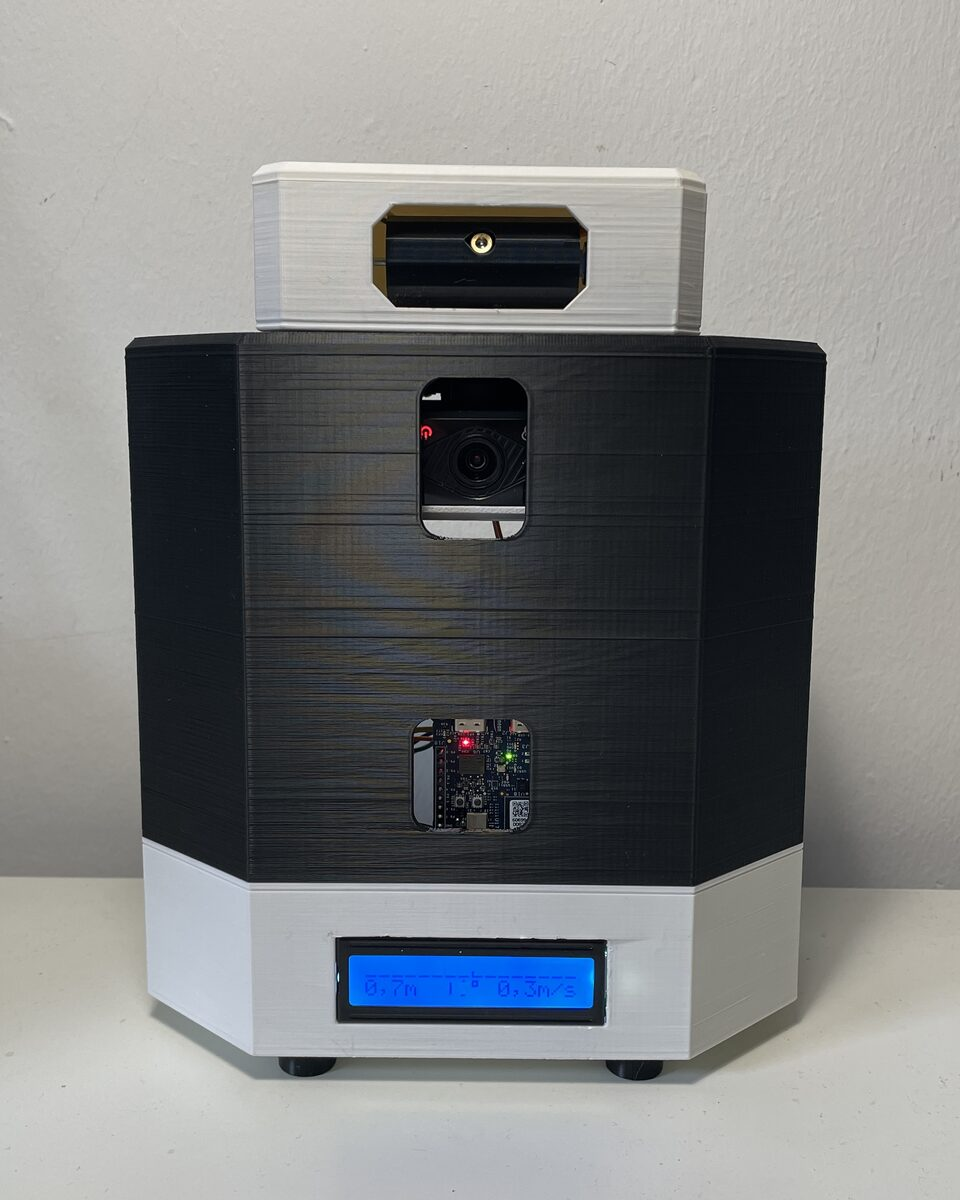
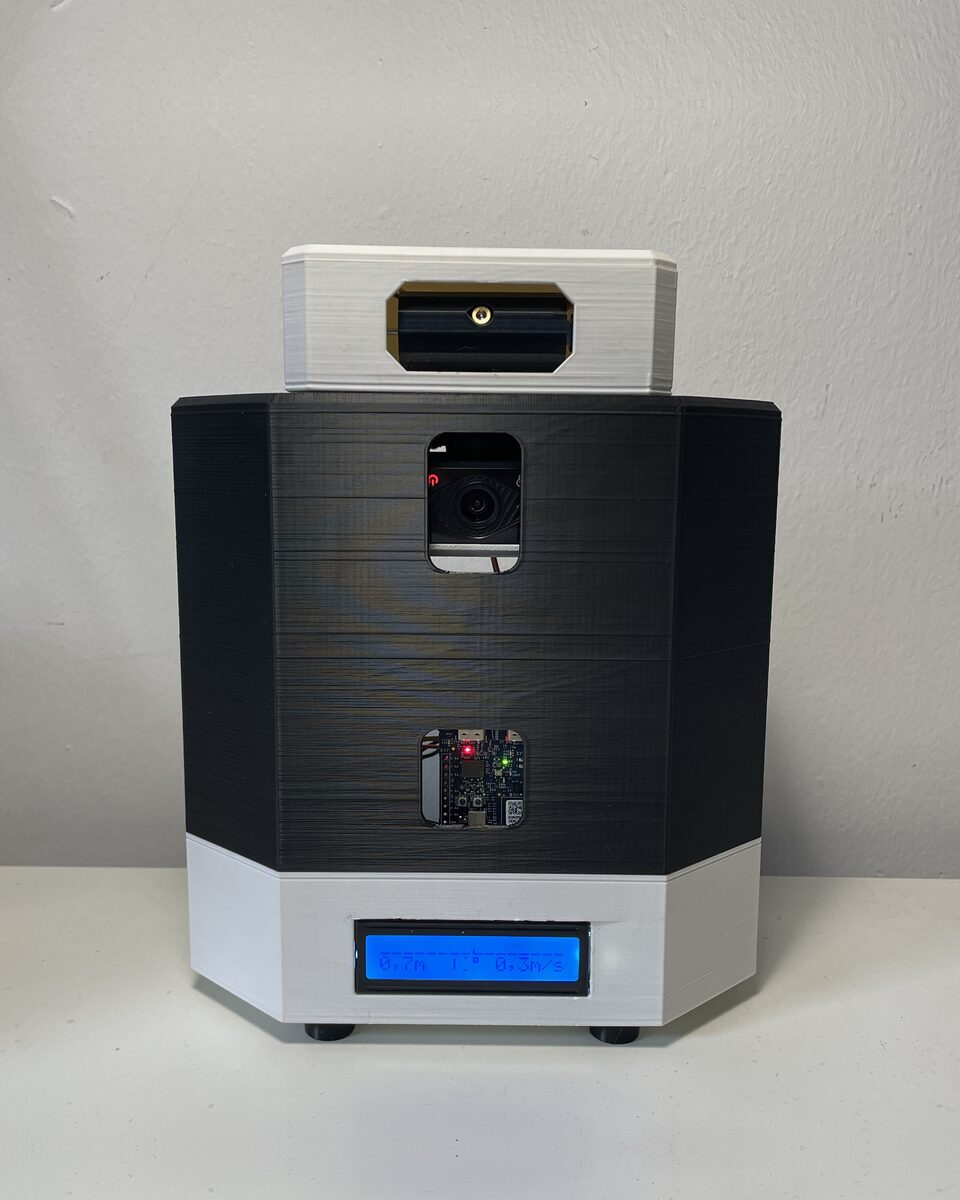
Add files via upload

Changed region(s): [[0.0, 0.1233, 1.0, 0.925]]

diff --git a/tracking.html b/tracking.html
@@ -149,7 +149,7 @@
     </div>
 
     <div class="media-row photo-row">
-      <figure class="screen photo"><img src="assets/img/tp-v2-built.jpg" alt="Fertiges V2-Gehäuse auf dem Tisch: Sensorkopf obendrauf, Kamera und Radarboard hinter den Frontfenstern, LCD im Sockel" loading="lazy" decoding="async"></figure>
+      <figure class="screen photo"><img src="assets/img/tp-v2-built.jpg" alt="Fertiges V2-Gehäuse im Betrieb: Sensorkopf obendrauf, Kamera und Radarboard hinter den Frontfenstern, leuchtendes LCD im Sockel" loading="lazy" decoding="async"></figure>
       <div>
         <h3 data-en="Printed, assembled, running.">Gedruckt, montiert, läuft.</h3>
         <p data-en="The finished housing on the desk: camera and radar board sit behind the front windows, and the LCD in the base shows what the laser is following.">Das fertige Gehäuse auf dem Tisch: Kamera und Radarboard sitzen hinter den Frontfenstern, das LCD im Sockel zeigt, was der Laser gerade verfolgt.</p>
@@ -166,7 +166,7 @@
         <div><time data-en="September 2026">September 2026</time><h3 data-en="Version 1 submitted">Version 1 abgegeben</h3><p data-en="Radar, camera fusion, LCD, web console and report, measured with test A and B.">Radar, Kamerafusion, LCD, Leitkonsole und Bericht, vermessen mit Test A und B.</p></div>
       </li>
       <li>
-        <img src="assets/img/tp-v2-views.jpg" alt="Ansichten des V2-Gehäuses: vorne, hinten und geöffnet" loading="lazy" decoding="async">
+        <img src="assets/img/tp-v2-real.jpg" alt="Gedrucktes und montiertes V2-Gehäuse von vorn" loading="lazy" decoding="async">
         <div><time data-en="October 2026">Oktober 2026</time><h3 data-en="Version 2 housing">Version 2 im Gehäuse</h3><p data-en="Printed, assembled and calibrated: lateral 1–2 cm after a restart.">Gedruckt, montiert und kalibriert: seitlich 1–2 cm nach einem Neustart.</p></div>
       </li>
     </ol>

diff --git a/index.html b/index.html
@@ -23,7 +23,7 @@
     <a class="brand" href="index.html">Lukas Karrer</a>
     <nav class="nav-links" id="nav-links" aria-label="Hauptnavigation">
       <a href="tracking.html" data-en="Tracking">Tracking</a>
-      <a href="#projekte" data-en="Projects">Projekte</a>
+      <a href="#tracking" data-en="Projects">Projekte</a>
       <a href="#werkstatt" data-en="Workshop">Werkstatt</a>
       <a href="#ueber" data-en="About">Über mich</a>
       <a href="#kontakt" data-en="Contact">Kontakt</a>
@@ -42,7 +42,7 @@
       <h1>Lukas Karrer</h1>
       <p class="lead" data-en="I study mechatronics at TH Rosenheim and will start my master's in aerospace engineering at the University of Stuttgart in 2027. Alongside my studies I build my own prototypes, from idea to working hardware — from 60 GHz radar tracking to a welded stainless-steel rocket.">Ich studiere Mechatronik an der TH Rosenheim und beginne 2027 meinen Master in Luft- und Raumfahrttechnik an der Universität Stuttgart. Neben dem Studium baue ich eigene Prototypen, von der Idee bis zur laufenden Hardware – vom 60‑GHz-Radar-Tracking bis zur geschweißten Edelstahl-Rakete.</p>
       <div class="links">
-        <a class="btn" href="#projekte" data-en="See projects">Projekte ansehen</a>
+        <a class="btn" href="#tracking" data-en="See projects">Projekte ansehen</a>
         <a class="more" href="#kontakt" data-en="Get in touch">Kontakt aufnehmen</a>
       </div>
     </div>

diff --git a/assets/css/site.css b/assets/css/site.css
@@ -324,3 +324,20 @@ html.modal-open .nav { -webkit-backdrop-filter: none; backdrop-filter: none; }
 .screen.photo { margin: 0; background: #f2f2f2; }
 .photo-row .screen.photo img { aspect-ratio: 4/5; object-fit: cover; }
 @media (max-width: 820px) { .photo-row { grid-template-columns: 1fr; } }
+/* Kleine Projekte: vier in einer Reihe, Rakete und Garagenöffner bleiben groß */
+.tiles { grid-template-columns: repeat(4, 1fr); }
+.tile.wide { grid-column: 1 / -1; }
+.tile:not(.wide) .tile-body { padding: 22px 22px 0; }
+.tile:not(.wide) .tile-meta { font-size: 13px; margin-bottom: 6px; }
+.tile:not(.wide) h3 { font-size: 20px; }
+.tile:not(.wide) p.desc { font-size: 15px; margin-top: 8px; }
+.tile:not(.wide) .more { font-size: 15px; margin-top: 10px; }
+.tile:not(.wide) figure { margin: 18px 0 0; padding: 0 22px 22px; }
+.tile:not(.wide) figure img { aspect-ratio: 4/3; border-radius: var(--radius-s); }
+/* Screenshots ganz zeigen, auf einer hellgrauen Fläche in der Karte */
+.tile.contain figure { padding: 0 22px 22px; }
+.tile.contain figure img { object-fit: contain; background: #e8e8ed; padding: 12px; border-radius: var(--radius-s); box-shadow: none; }
+@media (max-width: 1100px) { .tiles { grid-template-columns: repeat(2, 1fr); } }
+@media (max-width: 640px) { .tiles { grid-template-columns: 1fr; } }
+/* Kein blinkender Text-Cursor beim Klicken in Text; Markieren und Kopieren geht weiter */
+html { caret-color: transparent; }
